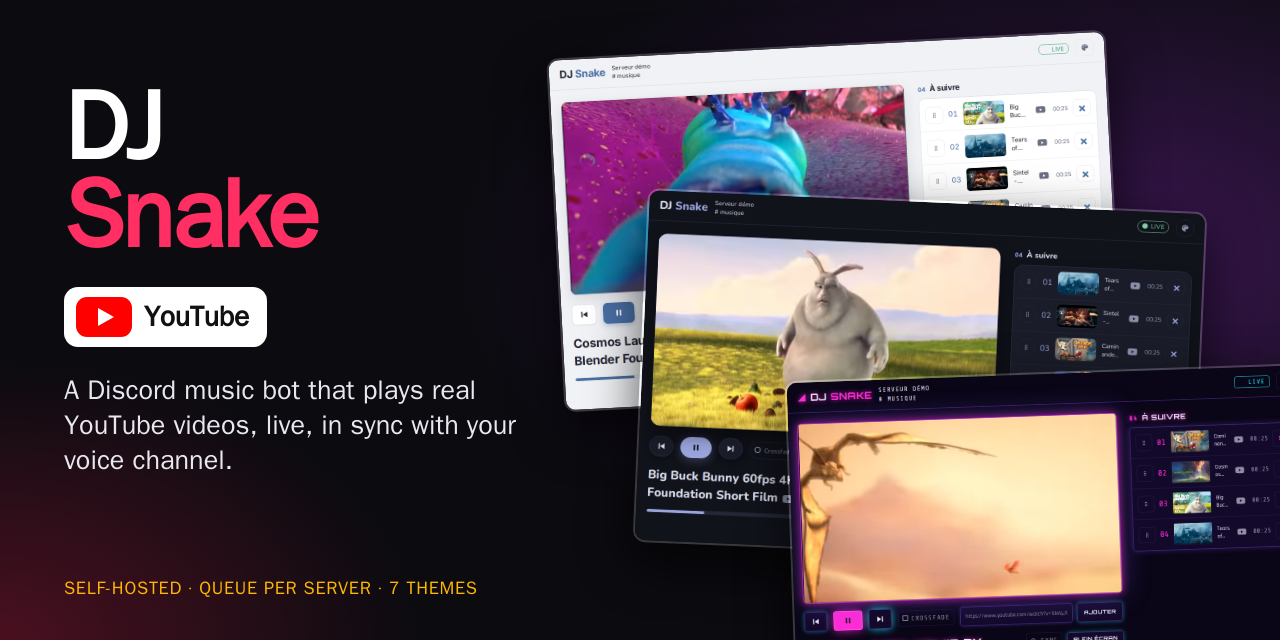
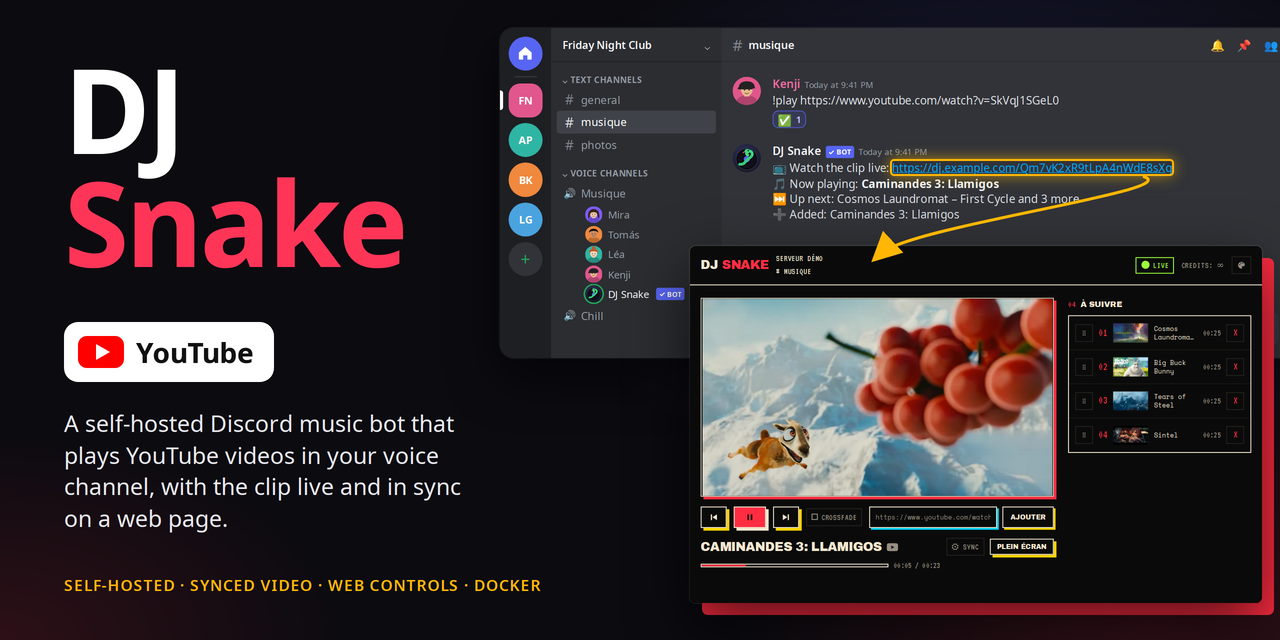
🎨 New cover: the bot in Discord linked to the clip page, themes demoted
The social preview now shows the voice channel with DJ Snake and its status
panel, with an arrow from the clip link to the Arcade clip page. The themes
badge is gone from the README and the landing page no longer has a themes
section or card.

diff --git a/docs/index.html b/docs/index.html
@@ -4,11 +4,11 @@
 <meta charset="utf-8">
 <meta name="viewport" content="width=device-width, initial-scale=1">
 <title>DJ Snake — a self-hosted Discord music bot</title>
-<meta name="description" content="A self-hosted Discord music bot with a live clip page: the video of the current track, synced with the audio, plus web controls, automix and seven themes.">
+<meta name="description" content="A self-hosted Discord music bot with a live clip page: the video of the current track, synced with the audio, plus web controls and automix.">
 <meta name="theme-color" content="#0a0a0a">
 <meta property="og:type" content="website">
 <meta property="og:title" content="DJ Snake — a self-hosted Discord music bot">
-<meta property="og:description" content="Live, synced clip page, automix and seven themes. Self-host it with Docker.">
+<meta property="og:description" content="Live, synced clip page, web controls and automix. Self-host it with Docker.">
 <meta property="og:image" content="https://theroxat.github.io/DJ_Snake/social-preview.png">
 <meta name="twitter:card" content="summary_large_image">
 <link rel="preconnect" href="https://fonts.googleapis.com">
@@ -56,8 +56,7 @@ section { padding: 40px 0; }
 .card p { margin: 0; color: var(--muted); font-size: 15px; }
 .card:nth-child(3n+2) { --c: var(--cyan); }
 .card:nth-child(3n+3) { --c: var(--red); }
-.themes { display: grid; grid-template-columns: minmax(0, 1fr); gap: 16px; }
-.themes figcaption, .note { color: var(--muted); font-size: 14px; margin-top: 10px; }
+.note { color: var(--muted); font-size: 14px; margin-top: 10px; }
 pre {
   margin: 0; padding: 20px; overflow-x: auto; background: #000; border: 2px solid var(--text);
   box-shadow: 6px 6px 0 var(--cyan); font: 400 15px/1.7 var(--body); color: var(--text);
@@ -95,7 +94,7 @@ footer p { margin: 0 0 10px; }
           <a class="btn alt" href="https://github.com/Theroxat/DJ_Snake">View on GitHub</a>
         </div>
       </div>
-      <img class="shot" src="screenshots/demo.webp" width="1280" height="800" alt="Animation of the clip page: a video plays next to the queue, then the palette menu switches between the Minimal, Club and Terminal themes.">
+      <img class="shot" src="screenshots/demo.webp" width="1280" height="800" alt="Animation: the bot joins a Discord voice channel and posts the clip link, then the clip page plays the video in sync with a drag-and-drop queue and a seek bar.">
     </div>
 
     <section aria-labelledby="features">
@@ -103,19 +102,11 @@ footer p { margin: 0 0 10px; }
       <ul class="grid">
         <li class="card"><h3>Live clip page</h3><p>Every server gets a link with the muted video of the current track, synced with the voice audio, and a queue anyone with the link can control.</p></li>
         <li class="card"><h3>Automix</h3><p>Off-topic segments cut with SponsorBlock, loudness normalised to -14 LUFS, silences trimmed, smooth fades. Optional crossfade between tracks.</p></li>
-        <li class="card"><h3>Seven themes</h3><p>Arcade, Minimal, Nuit, Vinyle, Club, Terminal and a custom one with your colors, name and logo. Admins pick the default, viewers pick their own.</p></li>
+        <li class="card"><h3>Web controls</h3><p>Pause, seek, jump to a track, drag to reorder, remove, or paste a YouTube link to add it, right from the clip page.</p></li>
         <li class="card"><h3>One queue per server</h3><p>Independent queues, playlists and radio links, with previous, seek, jump, reorder and remove from Discord or from the page.</p></li>
         <li class="card"><h3>One live status message</h3><p>A single panel edited in place instead of a channel full of announcements. Commands answer with a reaction.</p></li>
-        <li class="card"><h3>Self-hosted, low upkeep</h3><p>Docker Compose with a PO token sidecar. yt-dlp upgrades itself on start, and it keeps working when YouTube changes.</p></li>
+        <li class="card"><h3>Self-hosted, low upkeep</h3><p>Docker Compose with a PO token sidecar. yt-dlp upgrades itself on start, and it keeps working when YouTube changes. The page is themable, too.</p></li>
       </ul>
-    </section>
-
-    <section aria-labelledby="themes">
-      <h2 id="themes">Make it yours</h2>
-      <figure class="themes" style="margin:0">
-        <img class="shot" style="box-shadow:10px 10px 0 var(--cyan)" src="screenshots/themes.png" width="1212" height="508" alt="The clip page in its six preset themes: Arcade, Minimal, Nuit, Vinyle, Club and Terminal.">
-        <figcaption>Six presets plus a custom theme. <a href="demo/">Switch them yourself in the demo</a>, or open <a href="demo/?edit=demo">the theme editor</a>.</figcaption>
-      </figure>
     </section>
 
     <section id="install" aria-labelledby="install-h">

diff --git a/README.md b/README.md
@@ -11,7 +11,6 @@
 ![Tests](https://img.shields.io/badge/tests-159%20passing-2ea44f)
 [![Release](https://img.shields.io/github/v/release/Theroxat/DJ_Snake?color=ff2c41)](https://github.com/Theroxat/DJ_Snake/releases)
 [![Docker](https://img.shields.io/badge/ghcr.io-amd64%20%7C%20arm64-2496ed?logo=docker&logoColor=white)](https://github.com/Theroxat/DJ_Snake/pkgs/container/dj_snake)
-![Themes](https://img.shields.io/badge/themes-7-ff2c41?labelColor=222)
 [![License: MIT](https://img.shields.io/badge/license-MIT-blue)](LICENSE)
 
 </div>
@@ -31,7 +30,7 @@
 - Live clip page: muted video synced with the audio, plus web controls (next, previous, pause, resume, seek, jump, remove, reorder, add).
 - Automix, always on: SponsorBlock `music_offtopic` segments are cut, loudness is normalised to -14 LUFS, leading and trailing silence is trimmed, and tracks fade in and out.
 - Optional crossfade between tracks.
-- Seven clip page themes (Arcade, Minimal, Nuit, Vinyle, Club, Terminal and a custom one with your colors, community name and logo). Server admins set the default, and each viewer can pick their own.
+- Themable clip page: seven looks, including a custom one with your colors, name and logo (see [Themes](#themes) below).
 - One live status message per session, edited in place instead of spamming the channel.
 - Radio/mix links ask whether to play the single track or the whole playlist.
 - yt-dlp upgrades itself on start, and a PO token sidecar handles YouTube's bot check.
